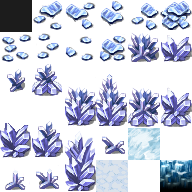
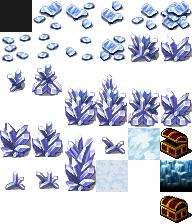
added treasure room to dragon cave

diff --git a/Main.js b/Main.js
@@ -364,14 +364,15 @@ ASSET_MANAGER.downloadAll(function () {
                                                                         }
                                                                     }]);
 
-    var mage_npc_sprites = new SpriteSet(new Animation(mage_spritesheet, 0, 10, 64, 64, 0.05, 9, true, false),
-                                                new Animation(mage_spritesheet, 0, 9, 64, 64, 0.05, 9, true, false),
-                                                new Animation(mage_spritesheet, 0, 9, 64, 64, 0.05, 9, true, false),
-                                                new Animation(mage_spritesheet, 0, 11, 64, 64, 0.05, 9, true, false), null, null, null);
+    var mage_npc_sprites = new SpriteSet(new Animation(mage_spritesheet, 0, 10, 64, 64, 0.05, 1, true, false),
+                                                new Animation(mage_spritesheet, 0, 9, 64, 64, 0.05, 1, true, false),
+                                                new Animation(mage_spritesheet, 0, 9, 64, 64, 0.05, 1, true, false),
+                                                new Animation(mage_spritesheet, 0, 11, 64, 64, 0.05, 1, true, false), null, null, null);
 
-    //var mage_npc = NPC(gameEngine, [["Thank you for saving me, hero! I am forever in your debt.",
-    //                                 "In fact, I think I'll follow you around everywhere you go! I will never leave your arm. *swoon*"]],
-    //                                       mage_npc_sprites, /* point here */[], .06, false, [0], "level2", 1);
+    var mage_npc = new NPC(gameEngine, [["Thank you for saving me, hero! I was captured by the dragon and have been stuck here for days!! I am forever in your debt.",
+                                     "In fact, I think I'll follow you around everywhere you go! I will never leave your side. *swoon*"],
+                                        ["Come on! Let's go kill stuff!!! YEA!!! There is a secret exit at the back of this cave, I've seen people use it!!"]],
+                                           mage_npc_sprites, [new Point(475,115)], .06, false, [2], "dragon_cave", 1);
     // Environments 
     // indoor game, map (array, floor then interior, animations, tilesheet, quads, interactables. 
     var house1 = new IndoorEnvironment(gameEngine, [[[1, 2, 3, 4, 1, 2, 3, 4, 1, 2, 3, 4, 1, 2, 3, 4, 1, 2, 3],
@@ -462,36 +463,37 @@ ASSET_MANAGER.downloadAll(function () {
     
 
     var dragonCave = new IndoorEnvironment(gameEngine,  
-					  [[[0,   0,  0,  0, 0,  0,   0,  0,  0, 28, 28, 28, 33, 33, 33, 28, 28, 33, 28, 28,  0, 28, 28,  28,  28,  28, 33, 33, 28, 28],
-                        [0,   0,  0,  0, 28, 28,  0,  0, 28, 28, 28, 33, 33, 33, 33, 33, 33, 33, 33, 28, 28, 28, 33, 28, 28, 28, 33, 33, 33, 33],
+					  [[[0,   0,  0,  0, 0,  0,   0,  0,  0, 28, 28, 28, 33, 33, 33, 28, 28, 33, 28, 28,  0, 28, 28,  28,  28,  28, 33, 33, 28, 28, 0, 0, 0, 0, 0, 0, 0, 0, 0, 0, 0, 0],
+                        [0,   0,  0,  0, 28, 28,  0,  0, 28, 28, 28, 33, 33, 33, 33, 33, 33, 33, 33, 28, 28, 28, 33, 28, 28, 28, 33, 33, 33, 33, 0, 0, 0, 0, 0, 0, 0, 0, 0, 0, 0, 0],
+                        [28, 28, 28, 28, 28, 28, 28, 28, 28, 33, 33, 33, 33, 33, 33, 33, 33, 33, 33, 33, 28, 33, 33, 33, 33, 33, 33, 33, 33, 33, 28, 28, 28, 28, 28, 28, 28, 28, 28, 28, 28, 28],
+                        [28, 28, 28, 28, 33, 33, 28, 28, 33, 33, 33, 33, 33, 33, 33, 33, 33, 33, 33, 33, 33, 33, 33, 33, 33, 33, 33, 33, 33, 33, 28, 28, 28, 28, 28, 28, 28, 28, 28, 28, 28, 28],
+                        [33, 33, 33, 33, 33, 33, 33, 33, 33, 33, 33, 33, 33, 33, 33, 33, 33, 33, 33, 33, 33, 33, 33, 33, 33, 33, 33, 33, 33, 33, 33, 33, 33, 33, 33, 33, 33, 33, 33, 33, 33, 33],
+                        [33, 33, 33, 33, 33, 33, 33, 33, 33, 33, 33, 33, 33, 33, 33, 33, 33, 33, 33, 33, 33, 33, 33, 33, 33, 33, 33, 33, 33, 33, 33, 33, 33, 33, 33, 33, 33, 33, 33, 33, 33, 33],
+                        [33, 33, 33, 33, 33, 33, 33, 33, 33, 33, 33, 33, 33, 33, 33, 33, 33, 33, 33, 33, 33, 33, 33, 33, 33, 33, 33, 33, 33, 33, 33, 33, 33, 33, 33, 33, 33, 33, 33, 33, 33, 33],
+                        [33, 33, 33, 33, 33, 33, 33, 33, 33, 33, 33, 33, 35, 35, 35, 35, 35, 35, 35, 33, 33, 33, 33, 33, 33, 33, 33, 33, 33, 33, 33, 33, 33, 33, 33, 33, 33, 33, 33, 33, 33, 33],
+                        [33, 33, 33, 33, 33, 33, 33, 33, 33, 33, 33, 35, 0, 0, 0, 0, 0, 0, 0, 35, 35, 33, 33, 33, 33, 33, 33, 33, 33, 33, 33, 33, 33, 33, 33, 33, 33, 33, 33, 33, 33, 33],
+                        [33, 33, 33, 33, 33, 33, 33, 33, 33, 33,35, 0, 0, 0, 0, 0, 0, 0, 0, 0, 0, 35, 33, 33, 33, 33, 33, 33, 33, 33, 33, 33, 33, 33, 33, 33, 33, 33, 33, 33, 33, 33],
+                        [35, 35, 35, 35, 35, 35, 33, 33, 33, 33, 0, 0, 0, 0, 0, 0, 0, 0, 0, 0, 0, 0, 35, 33, 33, 33, 0, 0, 33, 33, 35, 35, 35, 35, 35, 35, 35, 35, 35, 35, 35, 35],
+                        [0, 0, 0, 0, 0, 0, 33, 33, 35, 35, 0, 0, 0, 0, 0, 0, 0, 0, 0, 0, 0, 0, 0, 35, 35, 35, 0, 0, 35, 33, 0, 0, 0, 0, 0, 0, 0, 0, 0, 0, 0, 0],
+						[0, 0, 0, 0, 0, 0, 35, 35, 0, 0, 0, 0, 0, 0, 0, 0, 0, 0, 0, 0, 0, 0, 0, 0, 0, 0, 0, 0, 0, 35, 0, 0, 0, 0, 0, 0, 0, 0, 0, 0, 0, 0]],
 
-                        [28, 28, 28, 28, 28, 28, 28, 28, 28, 33, 33, 33, 33, 33, 33, 33, 33, 33, 33, 33, 28, 33, 33, 33, 33, 33, 33, 33, 33, 33],
-                        [28, 28, 28, 28, 33, 33, 28, 28, 33, 33, 33, 33, 33, 33, 33, 33, 33, 33, 33, 33, 33, 33, 33, 33, 33, 33, 33, 33, 33, 33],
-                        [33, 33, 33, 33, 33, 33, 33, 33, 33, 33, 33, 33, 33, 33, 33, 33, 33, 33, 33, 33, 33, 33, 33, 33, 33, 33, 33, 33, 33, 33],
-                        [33, 33, 33, 33, 33, 33, 33, 33, 33, 33, 33, 33, 33, 33, 33, 33, 33, 33, 33, 33, 33, 33, 33, 33, 33, 33, 33, 33, 33, 33],
-                        [33, 33, 33, 33, 33, 33, 33, 33, 33, 33, 33, 33, 33, 33, 33, 33, 33, 33, 33, 33, 33, 33, 33, 33, 33, 33, 33, 33, 33, 33],
-                        [33, 33, 33, 33, 33, 33, 33, 33, 33, 33, 33, 33, 35, 35, 35, 35, 35, 35, 35, 33, 33, 33, 33, 33, 33, 33, 33, 33, 33, 33],
-                        [33, 33, 33, 33, 33, 33, 33, 33, 33, 33, 33, 35, 0, 0, 0, 0, 0, 0, 0, 35, 35, 33, 33, 33, 33, 33, 33, 33, 33, 33],
-                        [33, 33, 33, 33, 33, 33, 33, 33, 33, 33,35, 0, 0, 0, 0, 0, 0, 0, 0, 0, 0, 35, 33, 33, 33, 33, 33, 33, 33, 33],
-                        [35, 35, 35, 35, 35, 35, 33, 33, 33, 33, 0, 0, 0, 0, 0, 0, 0, 0, 0, 0, 0, 0, 35, 33, 33, 33, 0, 0, 33, 33],
-                        [0, 0, 0, 0, 0, 0, 33, 33, 35,35, 0, 0, 0, 0, 0, 0, 0, 0, 0, 0, 0, 0, 0, 35, 35, 35, 0, 0, 35, 33],
-						[0, 0, 0, 0, 0, 0, 35, 35, 0, 0, 0, 0, 0, 0, 0, 0, 0, 0, 0, 0, 0, 0, 0, 0, 0, 0, 0,0, 0, 35]],
 
-
-                        [[34, 34, 34, 34, 34, 34, 34, 34, 34, 34, 34, 34, 34, 34, 11, 34, 34, 13, 17, 34, 34, 34, 34, 34, 34, 34, 34, 34, 34, 16],
-                        [34, 34, 34, 34, 34, 34, 34, 34, 34, 34, 34, 34, 34, 34, 31, 12, 34, 34, 23, 34, 34, 34, 11, 34, 34, 34, 15, 34, 34, 22],
-                        [34, 34, 34, 34, 34, 34, 34, 34, 34, 12, 34, 34, 34, 34, 34, 34, 34, 34, 34, 34, 34, 27, 34, 34, 34, 30, 21, 34, 34, 34],
-                        [34, 34, 34, 34, 31, 27, 34, 34, 27, 34, 34, 34, 8, 6, 34, 34, 34, 34, 34, 34, 34, 34, 34, 34, 34, 34, 34, 34, 34, 34],
-                        [34, 34, 34, 34, 12, 34, 34, 31, 10, 34, 34, 34, 34, 7, 34, 34, 34, 34, 34, 34, 6, 34, 34, 34, 34, 34, 6, 34, 34, 26],
-                        [34, 34, 34, 34, 34, 34, 34, 34, 34, 34, 34, 34, 34, 34, 24, 34, 34, 34, 34, 7, 34, 34, 34, 34, 34, 6, 7, 34, 34, 32],
-                        [34, 34, 34, 34, 34, 34, 34, 34, 34, 34, 34, 34, 34, 11, 30, 10, 12, 34, 34, 34, 34, 34, 34, 34, 34, 8, 34, 34, 34, 34],
-                        [34, 34, 34, 34, 34, 34, 34, 34, 34, 34, 34, 31, 34, 34, 34, 34, 34, 34, 34, 34, 34, 34, 34, 34, 34, 34, 34, 34, 34, 34],
-                        [34, 34, 34, 34, 34, 34, 34, 34, 34, 34, 12, 34, 34, 34, 34, 34, 34, 34, 34, 34, 34, 34, 16, 34, 34, 34, 34, 34, 34, 34],
-                        [34, 34, 34, 34, 34, 34, 34, 34, 34, 1, 34, 34, 34, 34, 34, 34, 34, 34, 34, 34, 34, 34, 22, 10, 34,14, 34, 13, 14, 34],
-                        [34, 34, 34, 34, 34, 34, 34, 30, 2, 5, 34, 34, 34, 34, 34, 34, 34, 34, 34, 34, 34, 34, 34, 34, 34, 20, 34, 34, 20,15],
-                        [34, 34, 34, 34, 34, 34, 12, 27, 34, 34, 34, 34, 34, 34, 34, 34, 34, 34, 34, 34, 34, 34, 34, 34, 34, 34, 34, 34, 34, 21],
-                        [34, 34, 34, 34, 34, 34, 34, 34, 34, 34, 34, 34, 34, 34, 34, 34, 34, 34, 34, 34, 34, 34, 34, 34, 34, 34, 34, 34, 34, 34]]],
-                        null, new Tilesheet("./imgs/dragoncave.png", 32, 6), [0, 1, 2], [new Portal(0, 6, 0, gameEngine, ExitDragonCave), new Portal(18, 6, 1, gameEngine, EnterLevel2, 1)], "dragon_cave", "./imgs/ice_cave.png", ["Skeleton", "Malboro", "Ogre", "Dire Wolf"], 0);
+                        [[34, 34, 34, 34, 34, 34, 34, 34, 34, 34, 34, 34, 34, 34, 11, 34, 34, 13, 17, 34, 34, 34, 34, 34, 34, 34, 34, 34, 34, 16, 34, 34, 34, 34, 34, 34, 34, 34, 34, 34, 34, 34],
+                        [34, 34, 34, 34, 34, 34, 34, 34, 34, 34, 34, 34, 34, 34, 31, 12, 34, 34, 23, 34, 34, 34, 11, 34, 34, 34, 15, 34, 34, 22, 34, 34, 34, 34, 34, 34, 34, 34, 34, 34, 34, 34],
+                        [34, 34, 34, 34, 34, 34, 34, 34, 34, 12, 34, 34, 34, 34, 34, 34, 34, 34, 34, 34, 34, 27, 34, 34, 34, 30, 21, 34, 14, 31, 34, 34, 34, 34, 34, 34, 34, 34, 34, 34, 34, 34],
+                        [34, 34, 34, 34, 31, 27, 34, 34, 27, 34, 34, 34, 8, 6, 34, 34, 34, 34, 34, 34, 34, 34, 34, 34, 34, 34, 34, 34, 20, 34, 34, 34, 34, 34, 34, 34, 34, 34, 34, 34, 34, 34],
+                        [34, 34, 34, 34, 12, 34, 34, 31, 10, 34, 34, 34, 34, 7, 34, 34, 34, 34, 34, 34, 6, 34, 34, 34, 34, 34, 6, 34, 34, 26, 2, 3, 34, 41, 41, 34, 34, 34, 34, 34, 34, 34],
+                        [8, 34, 34, 34, 34, 34, 34, 34, 34, 34, 34, 34, 34, 34, 24, 34, 34, 34, 34, 7, 34, 34, 34, 34, 34, 6, 7, 34, 30, 32, 8, 9,   34, 34, 34, 34, 34, 34, 34, 34, 34, 34],
+                        [2, 8, 34, 34, 34, 34, 34, 34, 34, 34, 34, 34, 34, 11, 30, 10, 12, 34, 34, 34, 34, 34, 34, 34, 34, 8, 34, 34, 16, 34, 3,   34, 34, 34, 34, 34, 34, 34, 34,34, 34, 34],
+                        [3, 7, 2, 34, 34, 34, 34, 34, 34, 34, 34, 31, 34, 34, 34, 34, 34, 34, 34, 34, 34, 34, 34, 34, 34, 34, 34, 31, 22, 27, 34, 34, 34,  34, 34, 34, 34, 34, 2, 34, 34, 34],
+                        [7, 9, 34, 34, 34, 34, 34, 34, 34, 34, 12, 34, 34, 34, 34, 34, 34, 34, 34, 34, 34, 34, 16, 34, 34, 34, 34, 34, 13, 12, 34, 34, 34,  34, 34, 34, 34, 2, 8, 34, 34, 34],
+                        [8, 34, 34, 34, 34, 34, 34, 34, 34, 1, 34, 34, 34, 34, 34, 34, 34, 34, 34, 34, 34, 34, 22, 10, 34, 14, 34, 13, 14, 34, 34, 34, 34, 41, 41, 34, 3, 9,  7, 3, 34, 34],
+                        [34, 34, 34, 34, 34, 34, 34, 30, 2, 5, 34, 34, 34, 34, 34, 34, 34, 34, 34, 34, 34, 34, 34, 34, 34, 20, 34, 34, 20, 15, 34, 34, 34, 34, 34, 34, 34, 34, 34, 34, 34, 34],
+                        [34, 34, 34, 34, 34, 34, 12, 27, 34, 34, 34, 34, 34, 34, 34, 34, 34, 34, 34, 34, 34, 34, 34, 34, 34, 34, 34, 34, 34, 21, 34, 34, 34, 34, 34, 34, 34, 34, 34, 34, 34, 34],
+                        [34, 34, 34, 34, 34, 34, 34, 34, 34, 34, 34, 34, 34, 34, 34, 34, 34, 34, 34, 34, 34, 34, 34, 34, 34, 34, 34, 34, 34, 34, 34, 34, 34, 34, 34, 34, 34, 34, 34, 34, 34, 34]]],
+                        null, new Tilesheet("./imgs/dragoncave.png", 32, 6), [0, 1, 2], [new Portal(0, 6, 0, gameEngine, ExitDragonCave), new Portal(18, 6, 2, gameEngine, EnterLevel2, 1),
+                        new Chest(10, 4, 2, gameEngine, [185], false), new Chest(11, 4, 2, gameEngine, [218], false), new Chest(10, 8, 2, gameEngine, [75], false), new Chest(11, 8, 2, gameEngine, [245], false)],
+                        "dragon_cave", "./imgs/ice_cave.png", ["Skeleton", "Malboro", "Ogre", "Dire Wolf"], 0);
 
     var level1_animation1 = new EnvironmentAnimation(new Animation(ASSET_MANAGER.getAsset("./imgs/fire.png"), 0, 0, 32, 64, 0.5, 9, true, false), 
                             [[0, 3], [1, 3], [7, 3], [14, 3], [16, 3]], [0, 1, 3, 4], 0);
@@ -576,6 +578,7 @@ ASSET_MANAGER.downloadAll(function () {
 	gameEngine.addEntity(mountain_man);
 	gameEngine.addEntity(mountain_woman);
 	gameEngine.addEntity(mountain_villager);
+	gameEngine.addEntity(mage_npc);
     gameEngine.init(context);
     gameEngine.esc_menu.initHero(warrior);
     gameEngine.start();

diff --git a/GameEngine.js b/GameEngine.js
@@ -81,7 +81,7 @@ GameEngine = function () {
     this.timerId = null;
     this.timerId2 = null;
     this.environment = ["level1", "level2"];
-    this.current_environment = "level2";
+    this.current_environment = "dragon_cave";
     this.canControl = true;
     this.animation_queue = [];
     this.event = null;
@@ -990,6 +990,7 @@ Entity.prototype.doDamage = function (player, foes, game, is_multi_attack) {
                 {
                     setTimeout(function () { game.fadeOut(game, game, game.endBattle); }, 5000);
                     this.game.current_stage = this.game.stage[1];
+                    this.game.changeDragonCave(); 
                     this.game.removeEntityByName("Dragon");
                 }
                 else {
@@ -1015,8 +1016,18 @@ Entity.prototype.doDamage = function (player, foes, game, is_multi_attack) {
     if (!is_multi_attack && !game.fiendBattleOver(game) && !game.heroBattleOver(game)) {
         game.animation_queue.push(new Event(null, null, 500, game.setNextFighter, game));
     }
+}
 
-
+GameEngine.prototype.changeDragonCave = function () {
+    this.environment["dragon_cave"].map[1][4][29] = 34;
+    this.environment["dragon_cave"].map[1][5][29] = 34;
+    this.environment["dragon_cave"].map[1][5][28] = 34;
+    this.environment["dragon_cave"].map[1][6][28] = 34;
+    this.environment["dragon_cave"].map[1][7][28] = 34;
+    this.environment["dragon_cave"].map[1][7][27] = 34;
+    this.environment["dragon_cave"].map[1][8][29] = 34;
+    this.environment["dragon_cave"].map[1][7][27] = 34;
+    this.environment["dragon_cave"].map[1][8][28] = 34;
 }
 
 Entity.prototype.draw = function (context) {
@@ -1589,7 +1600,7 @@ Warrior = function (game, stats) {
         special: new Animation(this.spriteSheet, 0, 17, 64, 64, 0.05, 12, true, false),
         death: new Animation(this.spriteSheet, 0, 21, 64, 64, 0.5, 1, true, false)
     };
-    this.x = 320;
+    this.x = 180;
     this.y = 208;
 
     this.quests = [];
@@ -2107,6 +2118,9 @@ NPC.prototype.updateDialogue = function () {
             } else {
                 if (this.part === 0) {
                     this.part++;
+                }
+                if (this.game.environment[this.game.current_environment] === "dragon_cave" && this.part === 1) {
+
                 }
                 this.dialogue_index = 0;
                 text_box.style.visibility = "hidden";
@@ -2664,7 +2678,11 @@ Chest.prototype.startInteraction = function () {
 
         }
         if (!this.closed) {
-            this.game.environment[this.game.current_environment].map[loc_point.y][loc_point.x] = 100;
+            if (this.game.environment[this.game.current_environment] === "dragon_cave") {
+                this.game.environment[this.game.current_environment].map[loc_point.y][loc_point.x] = 29;
+            } else if (this.game.environment[this.game.current_environment] === "level1") {
+                this.game.environment[this.game.current_environment].map[loc_point.y][loc_point.x] = 100;
+            }
         }
     }
 }
